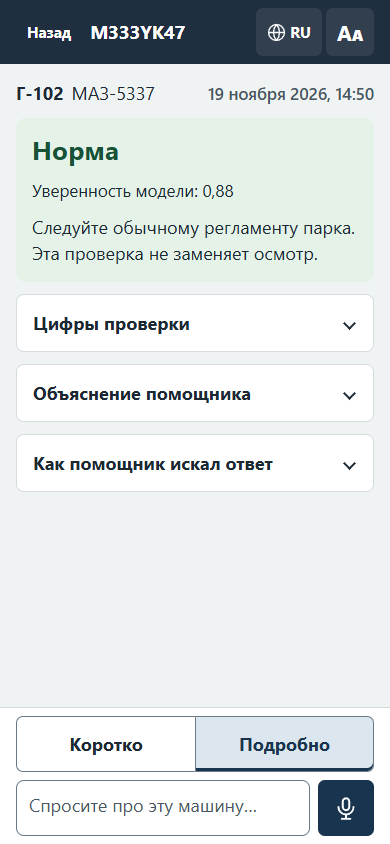
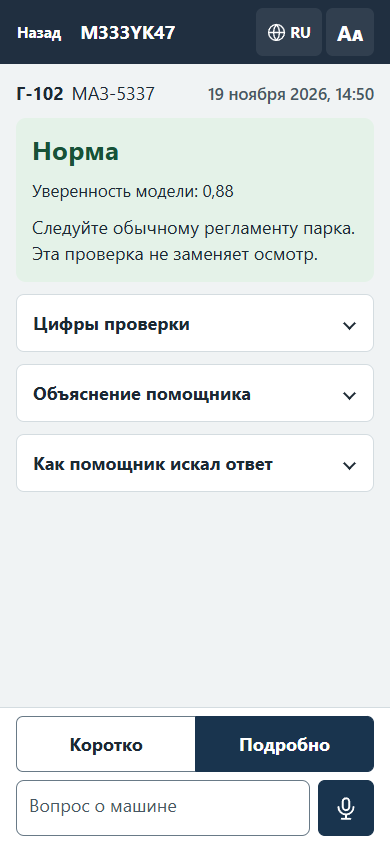
Телефон: экран главного механика по ТЗ B3/С4 – сводка норма / требует внимания / карантин плитками, очередь на дефектовку с номерами и приоритетом, фильтры заявок и перезаписи; без горизонтальной прокрутки на 360–412 px и с крупным шрифтом (проверка каждого элемента в тестах); поле вопроса ровно по 

Changed region(s): [[0.4923, 0.8318, 0.9846, 0.9242], [0.0615, 0.9242, 0.6154, 0.9858], [0.0308, 0.0308, 0.4923, 0.0616]]

diff --git a/web/app.js b/web/app.js
@@ -1,6 +1,7 @@
 'use strict';
 
 const $ = (selector, root = document) => root.querySelector(selector);
+const $$ = (selector, root = document) => [...root.querySelectorAll(selector)];
 const main = $('#main'), dock = $('#dock'), topbar = $('#top'), manual = $('#manual'), languageDialog = $('#language-dialog'), dataDialog = $('#data-dialog');
 const api = '/api';
 const state = {route: {page: 'park'}, vehicles: null, fleetFilter: '', cards: new Map(), chats: new Map(), query: '', all: false, demo: false};
@@ -211,7 +212,7 @@ function header() {
   size.setAttribute('aria-pressed', String(large));
   const identity = el('div', {class: 'identity'}, isPark ? mark() :
     action([icon('back'), el('span', {}, t('back'))], back, {class: 'back-button', 'aria-label': t('back')}),
-    el(['draft', 'receipt'].includes(page) ? 'strong' : 'h1', {class: 'brand', tabindex: '-1'}, vid || t(isPark ? 'brand' : page)));
+    page === 'fleet' ? null : el(['draft', 'receipt'].includes(page) ? 'strong' : 'h1', {class: 'brand', tabindex: '-1'}, vid || t(isPark ? 'brand' : page)));
   if (topbar.firstElementChild === tools) topbar.prepend(identity);
   else topbar.firstElementChild.replaceWith(identity);
 }
@@ -247,7 +248,8 @@ async function showRoute(route, focus = false, scroll = 0) {
   main.className = route.page;
   main.scrollTop = 0;
   if (state.me === undefined) state.me = await json(`${api}/me`).catch(() => null);
-  const load = ['park', 'fleet'].includes(route.page) && !state.vehicles ? async () => { state.vehicles = await json(`${api}/vehicles`); }
+  const load = route.page === 'fleet' ? async () => { [state.fleet, state.vehicles] = await Promise.all([json(`${api}/fleet`), state.vehicles || json(`${api}/vehicles`)]); }
+    : route.page === 'park' && !state.vehicles ? async () => { state.vehicles = await json(`${api}/vehicles`); }
     : route.vid && !state.cards.has(route.vid) ? async () => { state.cards.set(route.vid, await json(endpoint(route.vid))); }
     : null;
   if (load) {
@@ -316,32 +318,59 @@ function renderPark() {
   update();
   main.replaceChildren(el('div', {class: 'search-group'}, el('label', {for: 'vehicle-search'}, t('search')),
     el('div', {class: 'search'}, icon('search'), input, clear)),
-    state.me?.user?.role !== 'mechanic' && action([icon('chart'), t('fleet'), icon('next')], () => { state.fleetFilter = ''; navigate({page: 'fleet'}); }, {class: 'wide-link'}),
+    state.me?.user?.role !== 'mechanic' && action([icon('chart'), t('fleet'), icon('next')], () => { state.fleetFilter = ''; state.fleetNormal = false; navigate({page: 'fleet'}); }, {class: 'wide-link'}),
     el('div', {class: 'between list-heading'}, count, state.demo && el('span', {class: 'demo'}, t('demo'))), list,
     el('a', {class: 'data-link', href: '#data-dialog', 'aria-haspopup': 'dialog', onclick: e => { e.preventDefault(); openDataDialog(); }}, t('dataPolicy')),
     state.me?.user && el('p', {class: 'account'}, `${state.me.user.name} – ${state.me.user.role_name.toLocaleLowerCase('ru')}`, ' ',
       action(t('logout'), async () => { await fetch(`${api}/logout`, {method: 'POST'}); location.reload(); }, {class: 'link-button'})));
 }
 function renderFleet() {
-  const items = orderedVehicles();
-  const statuses = stageRank.filter(key => key !== 'unknown' || items.some(v => vehicleStage(v) === key));
-  const filters = [...statuses.map(key => [key, ...stages[key]]), ['open_ticket', 'openTickets', 'neutral', 'book']];
-  const matches = (v, key) => key === 'open_ticket' ? Boolean(v.open_ticket) : vehicleStage(v) === key;
-  const list = el('div', {class: 'vehicle-list'});
+  // B3 / С4 ТЗ: сводка по парку (норма / требует внимания / карантин), приоритетный список, история по клику
+  const group = v => { const s = vehicleStage(v); return s === 'quarantine' ? 'quarantine' : s === 'normal' ? 'normal' : 'attention'; };
+  // очередь – в порядке сервера (тяжесть, приоритет, оценка отклонения); машины, которых нет в очереди, – в конце
+  const queue = state.fleet?.priority ?? [];
+  const known = new Set(queue.map(v => v.vehicle_id));
+  const order = ['quarantine', 'attention', 'normal'];
+  const items = [...queue, ...orderedVehicles().filter(v => !known.has(v.vehicle_id))]
+    .map((v, i) => [v, i]).sort(([a, i], [b, j]) => order.indexOf(group(a)) - order.indexOf(group(b)) || i - j).map(([v]) => v);
+  const by = key => items.filter(v => group(v) === key);
+  const failed = items.filter(v => vehicleStage(v) === 'check_failed').length;
+  const tickets = items.filter(v => v.open_ticket).length;
+  const tiles = [['quarantine', 'quarantine', 'red', 'ban'], ['attention', 'anomaly', 'amber', 'warn'], ['normal', 'normal', 'green', 'check']];
+  const list = el('ol', {class: 'priority-list'});
+  const more = el('div', {});
   const update = () => {
-    const visible = state.fleetFilter ? items.filter(v => matches(v, state.fleetFilter)) : items;
-    list.replaceChildren(...visible.map(vehicleRow));
-    if (!visible.length) list.append(box(hint(t('fleetEmpty'))));
-    for (const btn of counts.children) btn.setAttribute('aria-pressed', String(btn.dataset.filter === state.fleetFilter));
+    const f = state.fleetFilter;
+    const visible = f === 'open_ticket' ? items.filter(v => v.open_ticket) : f === 'check_failed' ? items.filter(v => vehicleStage(v) === 'check_failed') : f ? by(f)
+      : items.filter(v => group(v) !== 'normal' || state.fleetNormal);
+    list.replaceChildren(...visible.map((v, i) => el('li', {}, fleetRow(v, i + 1))));
+    if (!visible.length) list.append(el('li', {}, box(hint(t('fleetEmpty')))));
+    const normals = by('normal').length;
+    more.replaceChildren(!f && !state.fleetNormal && normals ? action(t('showNormal', {count: normals}), () => { state.fleetNormal = true; update(); }, {class: 'wide-link center'}) : '');
+    for (const btn of $$('[data-filter]', main)) btn.setAttribute('aria-pressed', String(btn.dataset.filter === f));
+    heading.textContent = t(f ? 'fleetGroup' : 'fleetQueue', {name: f === 'open_ticket' ? t('openTickets').toLocaleLowerCase(lang) : f === 'check_failed' ? t('failed').toLocaleLowerCase(lang) : f ? t(tiles.find(x => x[0] === f)[1]).toLocaleLowerCase(lang) : ''});
   };
-  const counts = el('div', {class: 'fleet-counts'}, filters.map(([key, label, tone, symbol]) => {
-    return action([icon(symbol), el('span', {}, t(label)), el('strong', {}, String(items.filter(v => matches(v, key)).length))], () => {
-      state.fleetFilter = state.fleetFilter === key ? '' : key;
-      update();
-    }, {class: `fleet-count ${tone}`, 'data-filter': key});
-  }));
-  main.replaceChildren(counts, list);
+  const pick = key => () => { state.fleetFilter = state.fleetFilter === key ? '' : key; update(); };
+  const heading = el('h2', {class: 'list-title'});
+  main.replaceChildren(
+    el('div', {class: 'page-head'}, el('h1', {tabindex: '-1'}, t('fleetTitle')), hint(t('fleetTotal', {n: items.length}))),
+    el('section', {class: 'box fleet-summary'},
+      el('div', {class: 'tiles'}, tiles.map(([key, label, tone, symbol]) => action(
+        [el('span', {class: 'tile-top'}, el('strong', {class: 'tile-number'}, String(by(key).length)), icon(symbol)), el('span', {class: 'tile-label'}, t(label))],
+        pick(key), {class: `tile ${tone}`, 'data-filter': key}))),
+      action([icon('book'), el('span', {}, t('openTickets')), el('strong', {}, String(tickets))], pick('open_ticket'), {class: 'tickets-filter', 'data-filter': 'open_ticket'}),
+      failed ? action([icon('mic'), el('span', {}, t('fleetBriefFailed', {n: ''}).replace(/:\s*$/u, '')), el('strong', {}, String(failed))], pick('check_failed'), {class: 'tickets-filter violet', 'data-filter': 'check_failed'}) : null),
+    heading, list, more);
   update();
+}
+function fleetRow(v, rank) {
+  const stage = vehicleStage(v);
+  return action([el('span', {class: 'rank', 'aria-hidden': 'true'}, String(rank)),
+    el('span', {class: 'row-copy'}, plate(v.vehicle_id), vehicleModel(v), statusLine(stage, v.last_check),
+      priorityLabel(v.last_urgency) && stage !== 'normal' ? el('span', {class: `row-priority ${v.last_urgency}`}, priorityLine(v.last_urgency)) : null,
+      el('span', {class: 'row-meta'}, v.open_ticket ? el('span', {class: 'ticket-note'}, t('ticketOpen', {id: v.open_ticket})) : null,
+        v.last_check?.checked_at ? el('span', {class: 'row-date'}, `${t('checkedLabel')}: `, checkTime(v.last_check.checked_at)) : null)),
+    icon('next')], () => navigate({page: 'vehicle', vid: v.vehicle_id}), {class: 'vehicle-row fleet-row', 'data-stage': stage, 'data-plate': v.vehicle_id});
 }
 function context(v, s) {
   return el('div', {class: 'context'}, vehicleModel(v), s?.checked_at && checkTime(s.checked_at));
@@ -667,6 +696,7 @@ function renderComposer(c) {
 function resizeQuestion() {
   const input = $('#question');
   if (!input || input.hidden) return;
+  if (!input.value) { input.style.height = ''; return; }  // пустое поле – ровно по высоте кнопки, подсказка не растягивает
   input.style.height = 'auto';
   const css = getComputedStyle(input);
   const borders = parseFloat(css.borderTopWidth) + parseFloat(css.borderBottomWidth);

diff --git a/web/styles.css b/web/styles.css
@@ -55,8 +55,8 @@ p, li, dd, h1, h2, h3, strong, .brand, .pill, button { overflow-wrap: anywhere; 
 #language { gap: 4px; font-size: 15px; }
 #language .icon { width: 19px; height: 19px; }
 #font-size { font-size: 21px; }
-#font-size[aria-pressed=true] { background: var(--white); border-color: var(--white); color: var(--dark); box-shadow: inset 0 -4px 0 #8cacc9; }
-.back-button { font-size: 15px; white-space: nowrap; }
+#font-size[aria-pressed=true] { background: var(--white); border-color: var(--white); color: var(--dark); }
+.back-button { font-size: 15px; white-space: nowrap; margin-inline-start: -10px; }
 .back-button .icon { width: 18px; height: 18px; }
 @media (max-width: 470px) { .back-button .icon { display: none; } }
 @media (max-width: 375px) { .brand { font-size: 16px; } }
@@ -208,15 +208,13 @@ ol.fold-body { padding-inline-start: 30px; }
 .detail-switch { display: grid; grid-template-columns: repeat(2, minmax(0, 1fr)); }
 .detail-switch button:first-child { border-start-end-radius: 0; border-end-end-radius: 0; border-inline-end: 0; }
 .detail-switch button:last-child { border-start-start-radius: 0; border-end-start-radius: 0; }
-.detail-switch button[aria-pressed=true] { background: var(--active); color: var(--action); box-shadow: inset 0 -3px var(--action); }
+.detail-switch button[aria-pressed=true] { background: var(--action); border-color: var(--action); color: var(--white); }
 .detail-switch button:focus-visible { z-index: 1; }
 .dock-hint { font-size: .77rem; line-height: 1.25; letter-spacing: -.015em; }
 .question-row { grid-template-columns: minmax(0, 1fr) auto; align-items: end; }
 .question-row:has(#mic[hidden]):has(#send-question[hidden]) { grid-template-columns: minmax(0, 1fr); }
 .compose textarea, .field textarea, .field select, .field input { border: 1px solid var(--edge-line); border-radius: 8px; padding: 12px; width: 100%; min-width: 0; min-height: var(--target); background: var(--white); font-weight: 400; line-height: 1.35; }
 .compose textarea { resize: none; max-height: calc(5.4em + 26px); }
-@media (max-width: 375px) { .compose textarea:placeholder-shown { min-height: calc(2.7em + 26px); } }
-.large-type .compose textarea:placeholder-shown { min-height: calc(2.7em + 26px); }
 #send-question { max-width: 10ch; min-width: 94px; padding-inline: 8px; font-size: .94rem; }
 #voice-live { align-self: stretch; }
 .field { display: grid; font-weight: 700; gap: 8px; min-width: 0; }
@@ -280,3 +278,45 @@ dialog::backdrop { background: #172326b3; }
 /* кто вошел: внизу списка машин, рядом со ссылкой об обработке данных */
 .account { margin: -12px 0 0; color: var(--muted); display: flex; flex-wrap: wrap; align-items: center; gap: 4px 12px; }
 .link-button { min-height: var(--target); padding-inline: 0; border-color: transparent; background: none; color: var(--action); font-weight: 400; text-decoration: underline; }
+
+/* Главный механик: сводка плитками и приоритетный список */
+.fleet-summary { display: grid; gap: 12px; }
+.fleet-summary h2 { margin: 0; }
+.tiles { display: grid; grid-template-columns: repeat(3, minmax(0, 1fr)); gap: 8px; }
+.tile { display: grid; justify-content: stretch; justify-items: start; align-content: start; gap: 6px; min-height: 96px; padding: 12px; text-align: left; border-color: transparent; }
+.tile-number { font-size: 2rem; line-height: 1; font-variant-numeric: tabular-nums; }
+.tile-top { display: flex; align-items: center; gap: 6px; }
+.tile-top .icon { width: 18px; height: 18px; }
+.tile-label { font-size: .86rem; line-height: 1.2; overflow-wrap: normal; word-break: normal; min-width: 0; }
+.tile-label .icon { flex: none; width: 16px; height: 16px; margin-top: .05em; }
+.tile.red { background: var(--red-bg); color: var(--red); }
+.tile.amber { background: var(--amber-bg); color: var(--amber); }
+.tile.green { background: var(--green-bg); color: var(--green); }
+.tile[aria-pressed=true], .tickets-filter[aria-pressed=true] { box-shadow: inset 0 0 0 3px currentColor; }
+.tickets-filter { display: grid; grid-template-columns: 24px minmax(0, 1fr) auto; width: 100%; text-align: left; border-color: var(--line); color: var(--ink); }
+.tickets-filter strong { font-size: 1.2rem; font-variant-numeric: tabular-nums; }
+.tickets-filter.violet { color: var(--violet); background: var(--violet-bg); border-color: transparent; }
+.list-title { margin: 4px 0 0; font-size: 1.08rem; }
+.priority-list { list-style: none; margin: 0; padding: 0; display: grid; gap: 12px; }
+.fleet-row { grid-template-columns: 22px minmax(0, 1fr) 20px; column-gap: 8px; }
+.rank { font-weight: 750; font-size: 1.15rem; color: var(--muted); font-variant-numeric: tabular-nums; line-height: 1.4; }
+.row-meta { display: grid; gap: 4px; color: var(--muted); font-size: .92rem; }
+.row-meta .ticket-note { color: var(--action); font-weight: 650; }
+.wide-link.center { justify-content: center; }
+/* узкий экран или крупный шрифт: плитки в столбик, число слева от подписи */
+@media (max-width: 359px) { .tiles { grid-template-columns: 1fr; } .tile { min-height: 0; grid-template-columns: minmax(4.2rem, auto) minmax(0, 1fr); align-items: center; gap: 12px; } }
+@media (max-width: 440px) { .large-type .tiles { grid-template-columns: 1fr; } .large-type .tile { min-height: 0; grid-template-columns: minmax(4.6rem, auto) minmax(0, 1fr); align-items: center; gap: 12px; } .large-type .tile-label { font-size: 1rem; } }
+.tile-number { white-space: nowrap; }
+.page-head { display: grid; gap: 2px; }
+.page-head h1 { margin: 0; font-size: 1.45rem; }
+.row-priority { font-weight: 700; color: var(--ink); }
+.row-priority.high { color: var(--ink); }
+
+/* поле вопроса: в пустом виде ровно высоты кнопки микрофона, подсказка в одну строку */
+.compose textarea { height: var(--target); min-height: var(--target); }
+.compose textarea::placeholder { white-space: nowrap; overflow: hidden; text-overflow: ellipsis; }
+.question-row > button { height: var(--target); }
+/* заголовок в шапке никогда не раздвигает экран */
+.identity { overflow: hidden; }
+.brand { overflow: hidden; text-overflow: ellipsis; }
+.row-date time { white-space: nowrap; }

diff --git a/web/check_ui.py b/web/check_ui.py
@@ -26,7 +26,13 @@ def choose_language(page, lang):
 def no_overflow(page):
     assert page.evaluate('document.documentElement.scrollWidth === innerWidth')
     assert page.locator('main').evaluate('e => e.scrollWidth <= e.clientWidth')
-    assert page.locator('#top').evaluate('e => [...e.querySelectorAll(".brand, #header-tools, .back-button")].every(n => n.getBoundingClientRect().right <= e.getBoundingClientRect().right) && e.querySelector(".brand").getBoundingClientRect().right < e.querySelector("#header-tools").getBoundingClientRect().left')
+    # шапка и каждый элемент страницы – в пределах ширины экрана, заголовок не наезжает на кнопки
+    assert page.locator('#top').evaluate('''e => e.getBoundingClientRect().right <= innerWidth
+        && [...e.querySelectorAll('.brand, #header-tools, .back-button')].every(n => n.getBoundingClientRect().right <= innerWidth)
+        && (!e.querySelector('.brand') || e.querySelector('.brand').getBoundingClientRect().right < e.querySelector('#header-tools').getBoundingClientRect().left)''')
+    wide = page.evaluate('''[...document.querySelectorAll('main *, .dock *')].filter(n => { const r = n.getBoundingClientRect();
+        return r.width && (r.right > innerWidth + 0.5 || r.left < -0.5); }).map(n => n.tagName + '.' + n.className).slice(0, 5)''')
+    assert not wide, f'элементы шире экрана: {wide}'
 
 
 def last_item_clears_dock(page):
@@ -155,7 +161,7 @@ def voice(page):
 
 def vehicle_voice(page):
     open_vehicle(page)
-    question = page.get_by_role('textbox', name='Спросите про эту машину…')
+    question = page.get_by_role('textbox', name='Вопрос о машине')
     expect(question).to_be_visible(timeout=1500)
     # Keep the browser upload and fixture validation, substitute only the recognized phrase.
     page.evaluate('''() => {
@@ -285,10 +291,10 @@ def data_consent(page):
 def fleet_tickets(page):
     vehicles = page.request.get(f'{BASE}/api/vehicles').json()
     open_tickets = {v['vehicle_id']: v['open_ticket'] for v in vehicles if v['open_ticket']}
-    page.get_by_role('button', name='Режим главного механика').click()
+    page.get_by_role('button', name='Сводка парка для главного механика').click()
     counter = page.get_by_role('button', name=re.compile('Заявок в работе'))
     expect(counter.locator('strong')).to_have_text(str(len(open_tickets)), timeout=1500)
-    rows = page.locator('.vehicle-row')
+    rows = page.locator('.fleet-row')
     counter.click()
     expect(counter).to_have_attribute('aria-pressed', 'true')
     expect(rows).to_have_count(len(open_tickets))
@@ -299,7 +305,7 @@ def fleet_tickets(page):
     page.go_back()
     expect(counter).to_have_attribute('aria-pressed', 'true')
     counter.click()
-    expect(rows).to_have_count(len(vehicles))
+    expect(rows).to_have_count(sum(v['fleet_status'] != 'ok' for v in vehicles))  # без фильтра – очередь без машин в норме
 
 
 def voice_errors(page):
@@ -419,7 +425,7 @@ def screens(page):
     screenshot(page, '09-receipt')
     page.get_by_role('button', name='К списку машин').click()
     page.locator('.wide-link').click()
-    expect(page.locator('.fleet-count')).to_have_count(5)
+    expect(page.locator('.tile')).to_have_count(3)
     screenshot(page, '10-fleet')
     page.locator('[data-filter="open_ticket"]').click()
     page.locator('[data-plate="T792HO98"]').click()
@@ -507,21 +513,28 @@ def interactions(page):
     expect(search).to_have_value('')
     expect(search).to_be_focused()
     page.locator('.wide-link').click()
-    statuses = ['quarantine', 'anomaly', 'check_failed', 'normal']
-    rows = page.locator('.vehicle-row')
+    # B3/С4: сводка норма / требует внимания / карантин, очередь без машин в норме, карантин первым
+    rows = page.locator('.fleet-row')
+    group = {'quarantine': 'quarantine', 'anomaly': 'attention', 'check_failed': 'attention', 'normal': 'normal'}
     entries = rows.evaluate_all('els => els.map(e => e.dataset.stage)')
-    assert len(entries) == 50 and entries == sorted(entries, key=statuses.index), entries
-    assert page.locator('.vehicle-row').evaluate_all('rows => rows.every((row, i) => !i || row.dataset.stage !== rows[i-1].dataset.stage || Date.parse(row.querySelector("time").dateTime) <= Date.parse(rows[i-1].querySelector("time").dateTime))')
-    assert page.locator('.vehicle-row').evaluate_all('rows => rows.every(row => row.querySelectorAll(".pill").length === 1)')
-    for status in statuses:
-        button = page.locator(f'[data-filter="{status}"]')
-        count = int(button.locator('strong').inner_text())
+    tiles = {k: int(page.locator(f'[data-filter="{k}"] .tile-number').inner_text()) for k in ('quarantine', 'attention', 'normal')}
+    assert sum(tiles.values()) == 50, tiles
+    assert len(entries) == tiles['quarantine'] + tiles['attention'] and 'normal' not in entries, entries
+    assert entries[:tiles['quarantine']] == ['quarantine'] * tiles['quarantine'], entries
+    assert rows.evaluate_all('rows => rows.every((row, i) => row.querySelector(".rank").textContent === String(i + 1))')
+    for key in ('quarantine', 'attention', 'normal'):
+        button = page.locator(f'[data-filter="{key}"]')
         button.click()
         expect(button).to_have_attribute('aria-pressed', 'true')
-        expect(rows).to_have_count(count)
-        assert all(x == status for x in rows.evaluate_all('els => els.map(e => e.dataset.stage)'))
+        expect(rows).to_have_count(tiles[key])
+        assert all(group[x] == key for x in rows.evaluate_all('els => els.map(e => e.dataset.stage)'))
         button.click()
-        expect(rows).to_have_count(50)
+    failed = page.locator('[data-filter="check_failed"]')
+    failed.click()
+    assert set(rows.evaluate_all('els => els.map(e => e.dataset.stage)')) == {'check_failed'}
+    failed.click()
+    page.get_by_role('button', name=re.compile('Показать машины в норме')).click()
+    expect(rows).to_have_count(50)
     page.locator('.back-button').click()
     expect(search).to_be_visible()
     open_vehicle(page)
